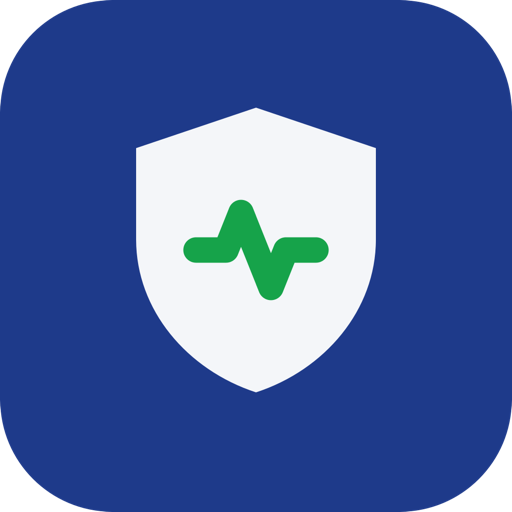
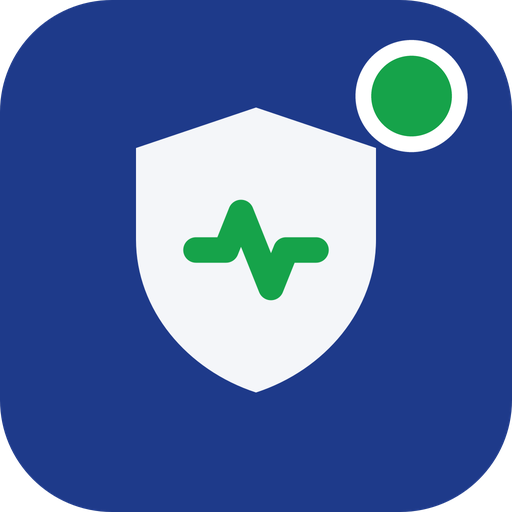
feat: 앱 아이콘·마스코트·위젯에 초록 배지 추가
앱 아이콘 우상단에 흰 테두리 초록 배지를 추가하고, 앱 내 마스코트(스플래시,
상단 앱바, 체크인 버튼)와 홈 화면 위젯 체크인 버튼에도 동일한 브랜드 배지를
반영했다. iOS/Android 모두 앱 아이콘 재생성 및 Play Store 512px 아이콘도 갱신.

Changed region(s): [[0.6875, 0.0625, 0.9375, 0.3125]]

diff --git a/lib/widgets/ansim_mascot.dart b/lib/widgets/ansim_mascot.dart
@@ -5,14 +5,25 @@ import 'package:flutter/material.dart';
 /// [color] — 배경에 따라 caller가 지정:
 ///   - 네이비/어두운 배경(스플래시, 홈 버튼) → Colors.white
 ///   - 밝은 배경(온보딩, 기타)               → AppTheme.primaryLight
+///
+/// [showBadge] — 앱 아이콘과 동일한 초록 배지(흰 테두리)를 방패 우상단에 표시.
+/// 배지의 흰 테두리는 네이비 배경에서만 대비가 생기므로 [color]가
+/// Colors.white인 네이비 배경 컨텍스트에서만 켜서 사용할 것.
+///
+/// [badgeRadius] — 배지 흰 테두리의 반지름 (100단위 좌표계 기준, 기본 10).
+/// 방패 우상단 꼭짓점에서 일정 간격을 띄운 위치에 자동으로 배치된다.
 class AnsimMascot extends StatelessWidget {
   final double size;
   final Color color;
+  final bool showBadge;
+  final double badgeRadius;
 
   const AnsimMascot({
     super.key,
     this.size = 80,
     this.color = Colors.white,
+    this.showBadge = false,
+    this.badgeRadius = 10,
   });
 
   @override
@@ -20,14 +31,26 @@ class AnsimMascot extends StatelessWidget {
     return SizedBox(
       width: size,
       height: size,
-      child: CustomPaint(painter: _ShieldPainter(color: color)),
+      child: CustomPaint(
+        painter: _ShieldPainter(
+          color: color,
+          showBadge: showBadge,
+          badgeRadius: badgeRadius,
+        ),
+      ),
     );
   }
 }
 
 class _ShieldPainter extends CustomPainter {
   final Color color;
-  const _ShieldPainter({required this.color});
+  final bool showBadge;
+  final double badgeRadius;
+  const _ShieldPainter({
+    required this.color,
+    this.showBadge = false,
+    this.badgeRadius = 10,
+  });
 
   @override
   void paint(Canvas canvas, Size size) {
@@ -76,8 +99,26 @@ class _ShieldPainter extends CustomPainter {
       4,
       Paint()..color = Colors.white.withValues(alpha: 0.22),
     );
+
+    // 앱 아이콘과 동일한 초록 배지 (방패 우상단 꼭짓점(85,22)에서 살짝 띄운 위치)
+    if (showBadge) {
+      const gap = 2.0;
+      const dx = 0.4;
+      const dyUp = 0.9165;
+      final dist = gap + badgeRadius;
+      final badgeCenter = Offset(85 + dist * dx, 22 - dist * dyUp);
+      canvas.drawCircle(badgeCenter, badgeRadius, Paint()..color = Colors.white);
+      canvas.drawCircle(
+        badgeCenter,
+        badgeRadius * 0.72,
+        Paint()..color = const Color(0xFF16A34A),
+      );
+    }
   }
 
   @override
-  bool shouldRepaint(covariant _ShieldPainter old) => old.color != color;
+  bool shouldRepaint(covariant _ShieldPainter old) =>
+      old.color != color ||
+      old.showBadge != showBadge ||
+      old.badgeRadius != badgeRadius;
 }

diff --git a/lib/screens/settings_screen.dart b/lib/screens/settings_screen.dart
@@ -91,8 +91,8 @@ class SettingsScreen extends StatelessWidget {
                     )),
               const SizedBox(height: 24),
 
-              // ── 설정 확인 ─────────────────────────────────
-              _SectionLabel(label: '설정 확인'),
+              // ── 통신 확인 ─────────────────────────────────
+              _SectionLabel(label: '통신 확인'),
               const _TestConnectionCard(),
               const SizedBox(height: 24),
 
@@ -309,7 +309,7 @@ class _InfoRow extends StatelessWidget {
   }
 }
 
-// ── 설정 확인 카드 ───────────────────────────────────────────
+// ── 통신 확인 카드 ───────────────────────────────────────────
 class _TestConnectionCard extends StatefulWidget {
   const _TestConnectionCard();
 
@@ -388,7 +388,7 @@ class _TestConnectionCardState extends State<_TestConnectionCard> {
                     ),
                   )
                 : const Text(
-                    '설정 확인',
+                    '통신 확인',
                     style: TextStyle(fontWeight: FontWeight.w600, fontSize: 13),
                   ),
           ),

diff --git a/lib/screens/home_screen.dart b/lib/screens/home_screen.dart
@@ -212,7 +212,12 @@ class _HomeScreenState extends State<HomeScreen>
                     color: AppTheme.primary,
                     shape: BoxShape.circle,
                   ),
-                  child: const AnsimMascot(size: 16, color: Colors.white),
+                  child: const AnsimMascot(
+                    size: 16,
+                    color: Colors.white,
+                    showBadge: true,
+                    badgeRadius: 13,
+                  ),
                 ),
                 const SizedBox(width: 8),
                 const Text('안심시그널'),
@@ -454,7 +459,7 @@ class _UncheckedContent extends StatelessWidget {
     return const Column(
       mainAxisAlignment: MainAxisAlignment.center,
       children: [
-        AnsimMascot(size: 80, color: Colors.white),
+        AnsimMascot(size: 80, color: Colors.white, showBadge: true),
         SizedBox(height: 10),
         Text(
           '나 괜찮아요',

diff --git a/ios/AnsimWidget/AnsimWidget.swift b/ios/AnsimWidget/AnsimWidget.swift
@@ -245,6 +245,16 @@ struct ShieldIcon: View {
             .stroke(Color.heartbeatGreen,
                     style: StrokeStyle(lineWidth: size*0.07, lineCap: .round, lineJoin: .round))
             .frame(width: size, height: size)
+
+            // Badge: 앱 아이콘과 동일한 초록 배지
+            Circle()
+                .fill(Color.white)
+                .frame(width: size * 0.21, height: size * 0.21)
+                .position(x: size * 0.90, y: size * 0.1054)
+            Circle()
+                .fill(Color.heartbeatGreen)
+                .frame(width: size * 0.1512, height: size * 0.1512)
+                .position(x: size * 0.90, y: size * 0.1054)
         }
         .frame(width: size, height: size)
     }

diff --git a/lib/screens/splash_screen.dart b/lib/screens/splash_screen.dart
@@ -58,7 +58,7 @@ class _SplashScreenState extends State<SplashScreen> {
           child: Column(
             mainAxisSize: MainAxisSize.min,
             children: [
-              AnsimMascot(size: 100, color: Colors.white),
+              AnsimMascot(size: 100, color: Colors.white, showBadge: true),
               SizedBox(height: 20),
               Text(
                 '안심시그널',
